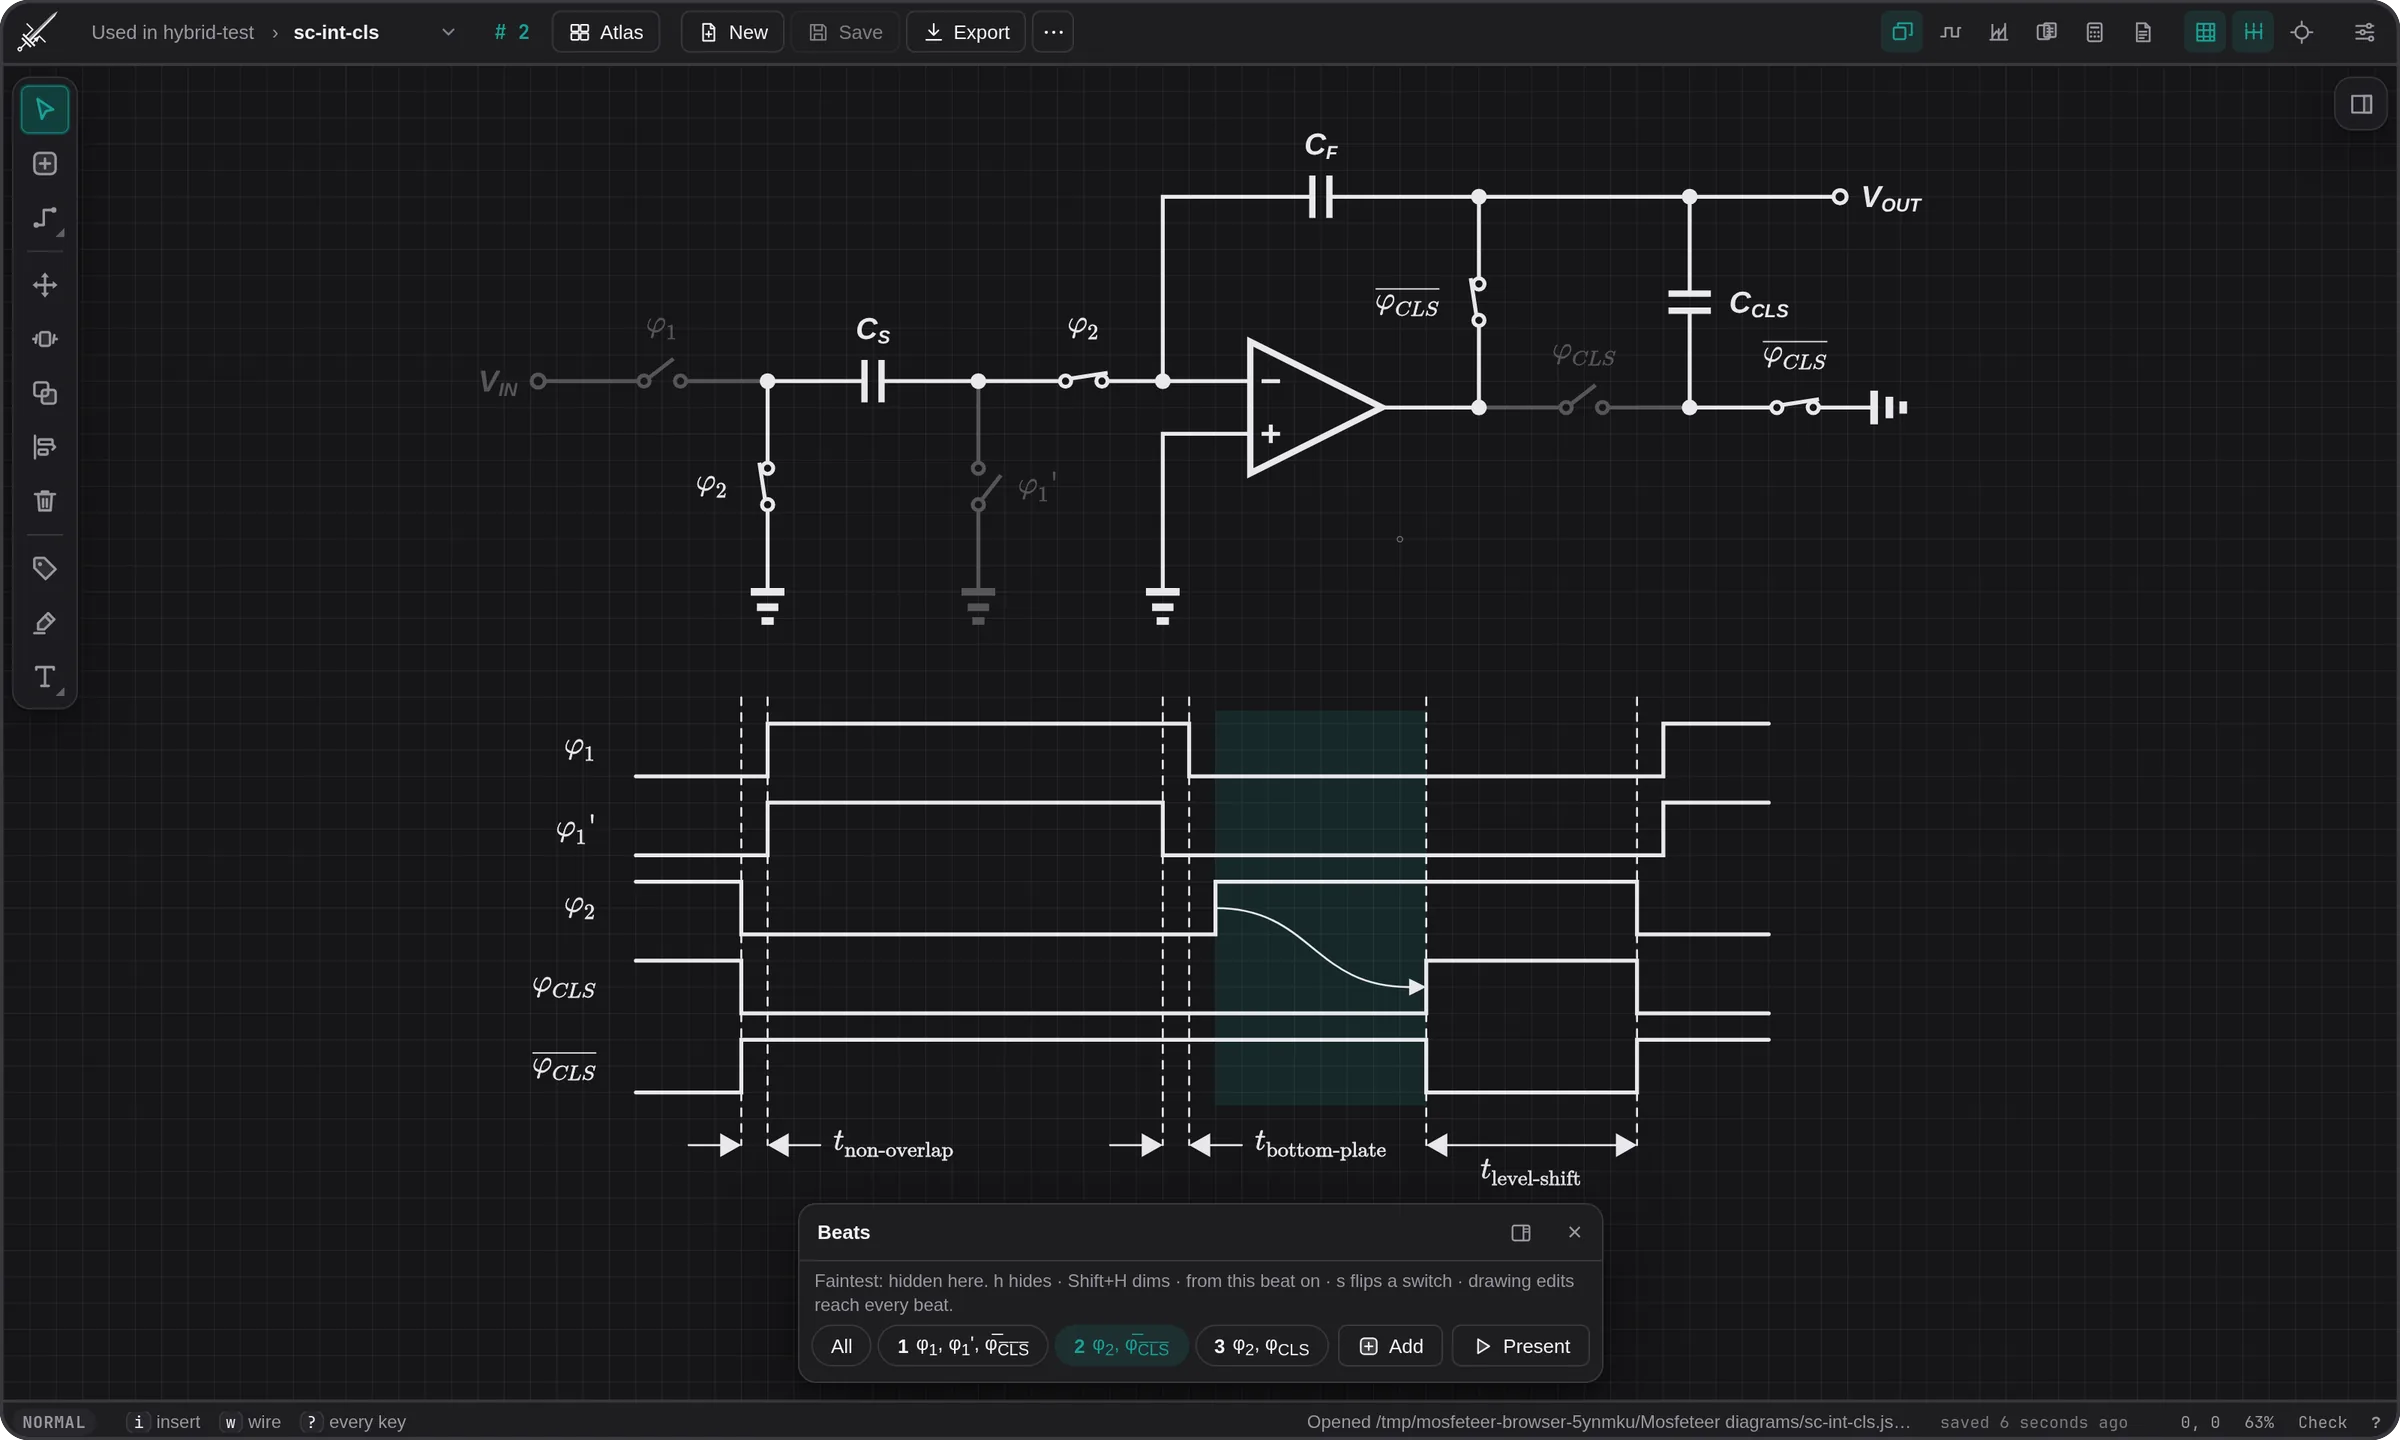
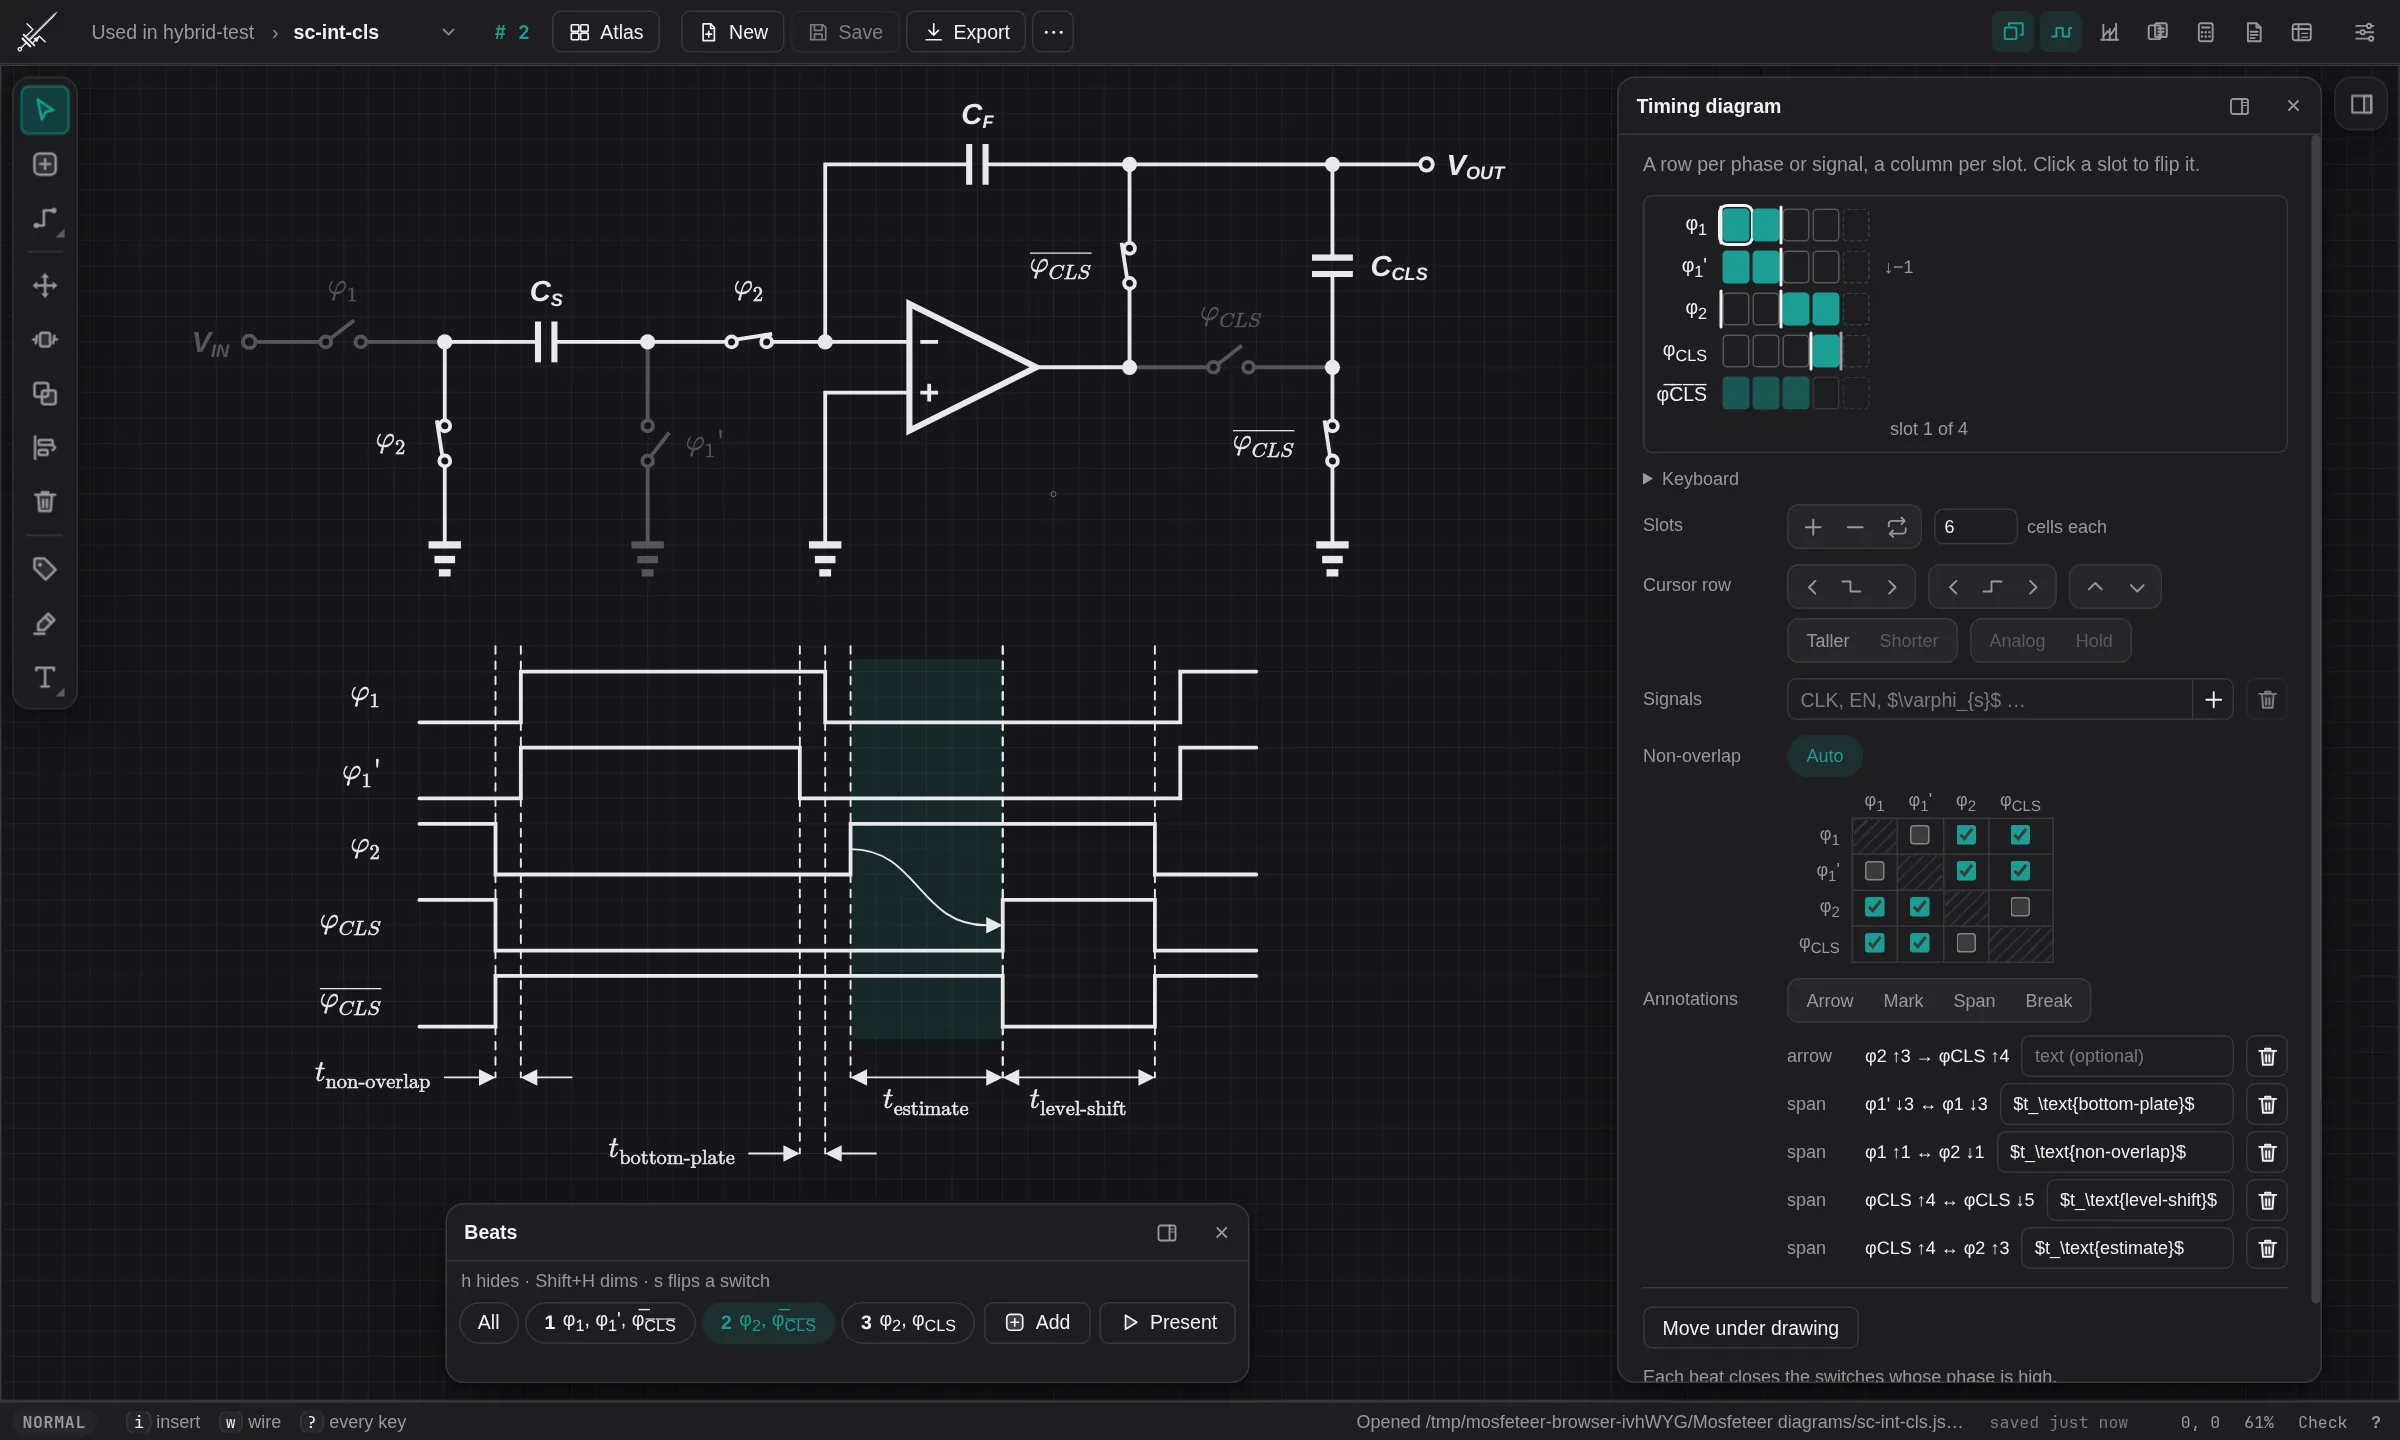
README: the beats picture taken again, with the timing diagram editor beside the drawing

diff --git a/README.md b/README.md
@@ -59,7 +59,7 @@ A design is one `.json` file in a folder.
   reference window (`Shift+V`).
 
 <p align="center">
-  <img src="docs/images/beats.webp" alt="A switched-capacitor integrator stepped to its second beat: the switches open in that phase are drawn open and the parts they cut off are dimmed. In the timing diagram below, a shaded band marks the slots of the phase on screen, and the beats window lists the three phases.">
+  <img src="docs/images/beats.webp" alt="A switched-capacitor integrator stepped to its second beat: the switches open in that phase are drawn open and the parts they cut off are dimmed. In the timing diagram below, a shaded band marks the slots of the phase on screen, and the beats window lists the three phases. On the right, the timing diagram editor shows each phase's slots as a grid, the non-overlap pairs, and the arrows and spans drawn on the diagram.">
 </p>
 
 ## The workspace
